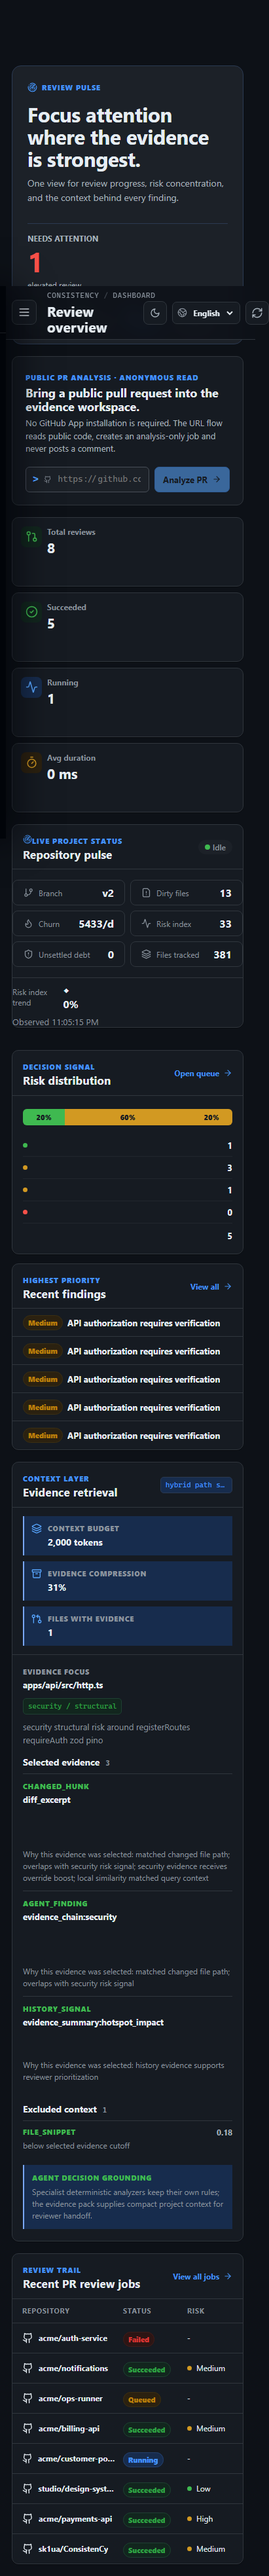
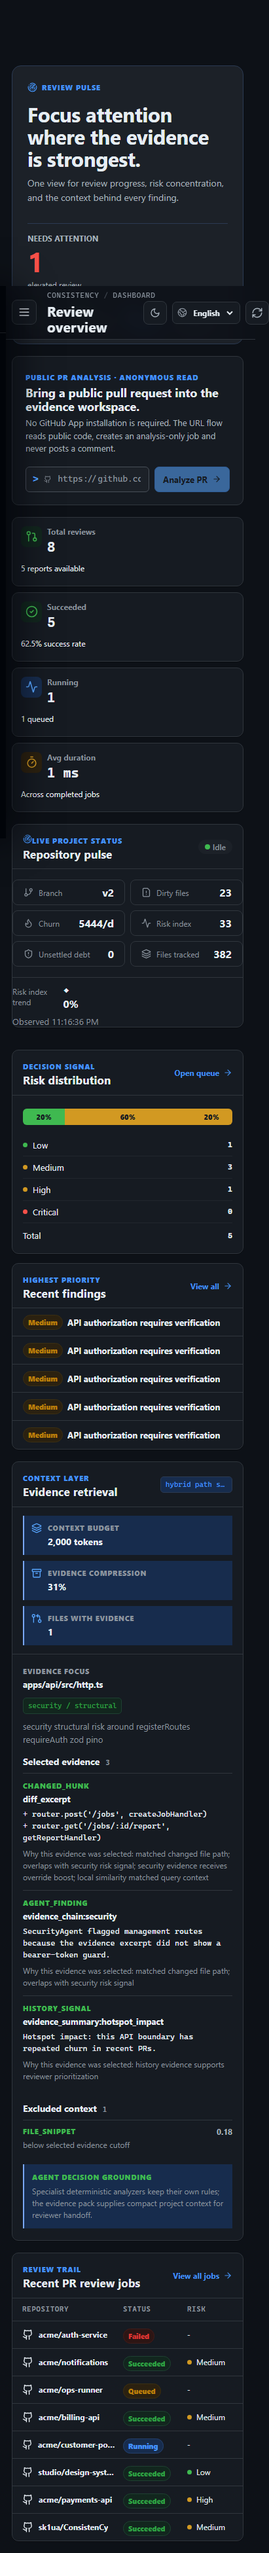
feat(web): IDE three-pane report layout and density pass
Report mode becomes an IDE split: findings list | evidence center | agent timeline (side panes sticky and independently scrollable). Notebook takes the full workspace width, matching its documented full-page research space. Density pass: 42px table rows, 46px finding rows, mono metric/risk/duration/agent numbers, mono table heads, and a panelized React Flow canvas. e2e selectors updated for the renamed report-ide wrapper.

Changed region(s): [[0.0292, 0.031, 0.8759, 0.9926], [0.5255, 0.3412, 0.7299, 0.3722], [0.7591, 0.3102, 0.8759, 0.3722]]

diff --git a/apps/web/src/pages/ReportPage.tsx b/apps/web/src/pages/ReportPage.tsx
@@ -78,19 +78,29 @@ export function ReportPage({ job, report, notebookId, llmProvider, llmModel, onB
       ? <DiffViewer files={diffFiles ?? []} findings={report?.findings ?? []} focus={diffFocus} />
       : workspaceView === "notebook" && notebookId
       ? <Suspense fallback={<div className="loading-state"><LoaderCircle className="spinning" size={22} /><span>{t("Loading review workspace")}</span></div>}><NotebookPanel notebookId={notebookId} /></Suspense>
-      : <div className="page-stack report-details">
-        {!report ? <div className="empty-state">{t("The report will appear when the review worker finishes.")}</div> : <>
-          <section className="section-block">
-            <div className="section-heading"><div><h2>{t("Findings")}</h2><p>{t("Evidence, reasoning and concrete remediation")}</p></div>
-              <div className="segmented"><button className={groupBy === "severity" ? "active" : ""} onClick={() => setGroupBy("severity")}>{t("Severity")}</button><button className={groupBy === "agent" ? "active" : ""} onClick={() => setGroupBy("agent")}>{t("Agent")}</button></div>
-            </div>
-            {groups.length === 0 ? <div className="empty-inline">{t("No findings were reported.")}</div> : groups.map(([group, findings]) => <div className="finding-group" key={group}>
-              <h3>{t(group)}<span>{findings.length}</span></h3>{findings.map(finding => <FindingItem finding={finding} key={finding.id} onLocate={(file, line) => { setDiffFocus({ file, line }); setWorkspaceView("diff"); }} />)}
-            </div>)}
-          </section>
-          <EvidencePanel retrieval={report.retrieval} />
-          <section className="section-block"><div className="section-heading"><div><h2>{t("Agent runs")}</h2><p>{t("Execution timeline and per-agent output")}</p></div></div><AgentRuns runs={report.agentRuns} /></section>
-        </>}
+      : <div className="report-ide">
+        <aside className="report-findings-pane" aria-label={t("Findings")}>
+          <div className="pane-heading">
+            <div className="section-heading"><div><h2>{t("Findings")}</h2><p>{t("Evidence, reasoning and concrete remediation")}</p></div></div>
+            <div className="segmented"><button className={groupBy === "severity" ? "active" : ""} onClick={() => setGroupBy("severity")}>{t("Severity")}</button><button className={groupBy === "agent" ? "active" : ""} onClick={() => setGroupBy("agent")}>{t("Agent")}</button></div>
+          </div>
+          <div className="pane-scroll">
+            {!report ? <div className="empty-state">{t("The report will appear when the review worker finishes.")}</div>
+              : groups.length === 0 ? <div className="empty-inline">{t("No findings were reported.")}</div>
+              : groups.map(([group, findings]) => <div className="finding-group" key={group}>
+                <h3>{t(group)}<span>{findings.length}</span></h3>{findings.map(finding => <FindingItem finding={finding} key={finding.id} onLocate={(file, line) => { setDiffFocus({ file, line }); setWorkspaceView("diff"); }} />)}
+              </div>)}
+          </div>
+        </aside>
+        <div className="report-center">
+          {!report ? <div className="empty-state">{t("The report will appear when the review worker finishes.")}</div> : <EvidencePanel retrieval={report.retrieval} />}
+        </div>
+        <aside className="report-detail-pane" aria-label={t("Agent runs")}>
+          <div className="pane-heading">
+            <div className="section-heading"><div><h2>{t("Agent runs")}</h2><p>{t("Execution timeline and per-agent output")}</p></div></div>
+          </div>
+          <div className="pane-scroll">{report && <AgentRuns runs={report.agentRuns} />}</div>
+        </aside>
       </div>}
   </div>;
 }

diff --git a/apps/web/src/styles/report.css b/apps/web/src/styles/report.css
@@ -14,9 +14,54 @@
 .report-workspace {
   min-width: 0;
   display: grid;
-  grid-template-columns: minmax(0, 1.45fr) minmax(360px, .78fr);
+  grid-template-columns: minmax(0, 1fr);
   align-items: start;
   gap: 15px;
+}
+
+/* ===== Report IDE split (report mode) ===== */
+.report-ide {
+  min-width: 0;
+  display: grid;
+  grid-template-columns: 300px minmax(0, 1fr) 340px;
+  align-items: start;
+  gap: 15px;
+}
+.report-findings-pane, .report-center, .report-detail-pane {
+  min-width: 0;
+  border: 1px solid var(--border);
+  border-radius: 8px;
+  background: var(--surface);
+}
+.report-findings-pane, .report-detail-pane {
+  position: sticky;
+  top: 12px;
+  max-height: calc(100vh - 24px);
+  display: grid;
+  grid-template-rows: auto minmax(0, 1fr);
+}
+.pane-heading {
+  padding: 13px 15px;
+  display: grid;
+  gap: 10px;
+  border-bottom: 1px solid var(--border);
+}
+.pane-heading .section-heading {
+  justify-content: flex-start;
+}
+.pane-scroll {
+  min-height: 0;
+  overflow: auto;
+  padding: 4px 15px 15px;
+}
+.report-center {
+  padding: 18px;
+}
+.report-center > .empty-state {
+  min-height: 320px;
+}
+.report-detail-pane .agent-run {
+  grid-template-columns: 24px minmax(0, 1fr);
 }
 .report-workspace > .report-page {
   min-width: 0;
@@ -129,7 +174,7 @@
   border: 1px solid var(--border-subtle);
   border-radius: 6px;
   background: var(--surface);
-  color: var(--sidebar-hover);
+  color: var(--foreground);
   cursor: pointer;
   font-size: 12px;
   font-weight: 700;
@@ -166,7 +211,7 @@
 .notebook-card p {
   margin: 7px 0 0;
   white-space: normal;
-  color: var(--sidebar-hover);
+  color: var(--foreground);
   font-size: 12px;
   line-height: 1.55;
 }
@@ -226,7 +271,7 @@
   display: inline-flex;
   align-items: center;
   gap: 5px;
-  color: var(--sidebar-hover);
+  color: var(--foreground);
   font-size: 12px;
   font-weight: 800;
 }
@@ -280,7 +325,7 @@
 .notebook-message-content {
   margin-top: 7px;
   white-space: normal;
-  color: var(--sidebar-hover);
+  color: var(--foreground);
   font-size: 14px;
   line-height: 1.55;
 }
@@ -474,7 +519,7 @@
   margin: 6px 0;
   max-height: 84px;
   overflow: auto;
-  color: var(--sidebar-hover);
+  color: var(--foreground);
   font-family: var(--font-mono);
   font-size: 12px;
   line-height: 1.5;
@@ -628,11 +673,11 @@
   font-weight: 500;
 }
 .finding-item {
-  border-top: 1px solid var(--border);
+  border-top: 1px solid var(--border-subtle);
 }
 .finding-summary {
   width: 100%;
-  min-height: 58px;
+  min-height: 46px;
   display: grid;
   grid-template-columns: 22px minmax(0, 1fr) auto 20px;
   align-items: center;
@@ -731,6 +776,11 @@
 }
 .agent-meta {
   text-align: right;
+  font-family: var(--font-mono);
+  font-size: 11px;
+}
+.agent-meta strong {
+  font-size: 12px;
 }
 .agent-error {
   grid-column: 2 / -1;

diff --git a/tests/e2e/public-pr-notebook.spec.ts b/tests/e2e/public-pr-notebook.spec.ts
@@ -72,7 +72,7 @@ test.describe("public PR Notebook UI", () => {
     const reviewMode = page.getByRole("button", { name: "Review report", exact: true });
     await expect(notebookMode).toHaveAttribute("aria-pressed", "true");
     await expect(reviewMode).toHaveAttribute("aria-pressed", "false");
-    await expect(page.locator(".report-details")).toHaveCount(0);
+    await expect(page.locator(".report-ide")).toHaveCount(0);
 
     const notebookBox = await page.locator(".notebook-panel").boundingBox();
     const conversationBox = await page.locator(".notebook-conversation").boundingBox();
@@ -87,14 +87,14 @@ test.describe("public PR Notebook UI", () => {
     await reviewMode.click();
     await expect(reviewMode).toHaveAttribute("aria-pressed", "true");
     await expect(notebookMode).toHaveAttribute("aria-pressed", "false");
-    await expect(page.locator(".report-details")).toBeVisible();
+    await expect(page.locator(".report-ide")).toBeVisible();
     await expect(page.locator(".notebook-panel")).toHaveCount(0);
     await expect(page.getByRole("heading", { name: "Findings", exact: true })).toBeVisible();
 
     await notebookMode.click();
     await expect(notebookMode).toHaveAttribute("aria-pressed", "true");
     await expect(page.locator(".notebook-panel")).toBeVisible();
-    await expect(page.locator(".report-details")).toHaveCount(0);
+    await expect(page.locator(".report-ide")).toHaveCount(0);
 
     const question = page.locator("textarea[aria-label='Ask Repository Notebook']");
     await question.fill("Which evidence should the reviewer inspect first?");
@@ -116,6 +116,6 @@ test.describe("public PR Notebook UI", () => {
     await expect(page.locator(".notebook-panel")).toBeVisible();
     await expect(page.locator(".notebook-source-bar")).toBeVisible();
     await expect(page.getByRole("button", { name: "Notebook workspace", exact: true })).toHaveAttribute("aria-pressed", "true");
-    await expect(page.locator(".report-details")).toHaveCount(0);
+    await expect(page.locator(".report-ide")).toHaveCount(0);
   });
 });

diff --git a/apps/web/src/styles/tables.css b/apps/web/src/styles/tables.css
@@ -8,7 +8,7 @@
 }
 .table-row {
   width: 100%;
-  min-height: 46px;
+  min-height: 42px;
   padding: 0 15px;
   display: grid;
   align-items: center;
@@ -25,11 +25,10 @@
   background: var(--surface-muted);
 }
 .table-head {
-  min-height: 36px;
+  min-height: 34px;
   border-top: 0;
   color: var(--muted);
-  font-size: 11px;
-  font-weight: 700;
+  font: 700 11px/1.4 var(--font-mono);
   letter-spacing: .06em;
   text-transform: uppercase;
 }
@@ -60,7 +59,7 @@
 }
 .pr-cell small {
   overflow: hidden;
-  color: var(--sidebar-hover);
+  color: var(--foreground);
   text-overflow: ellipsis;
   white-space: nowrap;
   font-size: 12px;
@@ -73,10 +72,17 @@
   font-size: 12px;
 }
 .score-cell {
-  font-weight: 800;
+  font-family: var(--font-mono);
+  font-size: 12px;
+  font-weight: 700;
+}
+.dashboard-table .table-row > span:nth-child(6) {
+  font-family: var(--font-mono);
+  font-size: 12px;
+  color: var(--muted-strong);
 }
 .row-action {
-  color: var(--sidebar-hover);
+  color: var(--foreground);
 }
 .badge {
   width: fit-content;

diff --git a/tests/e2e/capture-screenshots.spec.ts b/tests/e2e/capture-screenshots.spec.ts
@@ -58,6 +58,13 @@ test.describe("public project screenshot capture", () => {
     await expect(page.locator(".notebook-source-bar")).toBeVisible();
     await capture(page, "report-demo-desktop.png");
 
+    // IDE split in report mode: findings | evidence | agent timeline
+    await page.getByRole("button", { name: "Review report", exact: true }).click();
+    await stabilize(page, ".report-workspace", [".report-header", ".report-ide .finding-item", ".report-ide .agent-timeline"]);
+    await capture(page, "report-mode-desktop.png");
+    await page.getByRole("button", { name: "Notebook workspace", exact: true }).click();
+    await expect(page.locator(".notebook-source-bar")).toBeVisible();
+
     const notebookQuestion = page.locator("textarea[aria-label='Ask Repository Notebook']");
     await notebookQuestion.fill("Why should a reviewer inspect the selected evidence first?");
     await page.locator(".notebook-composer button[type='submit']").click();

diff --git a/apps/web/src/styles/dashboard.css b/apps/web/src/styles/dashboard.css
@@ -174,14 +174,15 @@
 }
 .metric-copy strong {
   margin-top: 4px;
-  font-family: var(--font-display);
-  font-size: 25px;
+  font-family: var(--font-mono);
+  font-size: 22px;
+  letter-spacing: -.01em;
   line-height: 1.15;
 }
 .metric-card small {
   grid-column: 1 / -1;
   align-self: end;
-  color: var(--sidebar-hover);
+  color: var(--foreground);
   font-size: 12px;
 }
 .dashboard-split {
@@ -268,7 +269,11 @@
   display: inline-flex;
   align-items: center;
   gap: 8px;
-  color: var(--sidebar-hover);
+  color: var(--foreground);
+}
+.risk-list > div strong {
+  font-family: var(--font-mono);
+  font-size: 12px;
 }
 .risk-list .risk-total {
   min-height: 38px;

diff --git a/apps/web/src/styles/workflow.css b/apps/web/src/styles/workflow.css
@@ -1,4 +1,12 @@
 /* ===== Workflow builder ===== */
+.react-flow {
+  border: 1px solid var(--border);
+  border-radius: 8px;
+  background: var(--surface);
+}
+.react-flow__node {
+  font-family: var(--font-mono);
+}
 .workflows-page {
   display: flex;
   flex-direction: column;

diff --git a/apps/web/src/styles/responsive.css b/apps/web/src/styles/responsive.css
@@ -166,6 +166,13 @@
     display: grid;
     padding: 20px;
   }
+  .report-ide {
+    grid-template-columns: minmax(0, 1fr);
+  }
+  .report-findings-pane, .report-detail-pane {
+    position: static;
+    max-height: none;
+  }
   .report-score {
     justify-items: start;
   }
